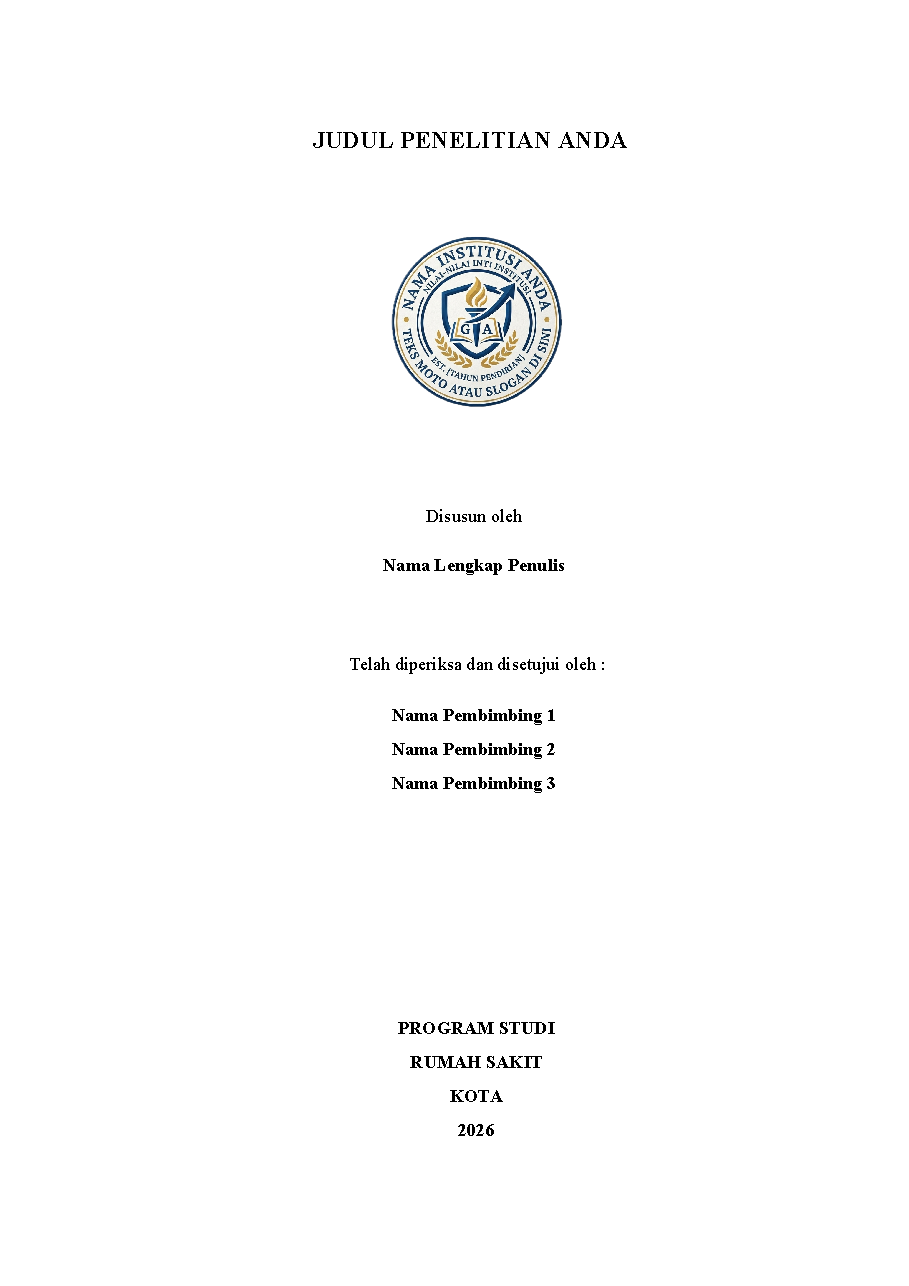
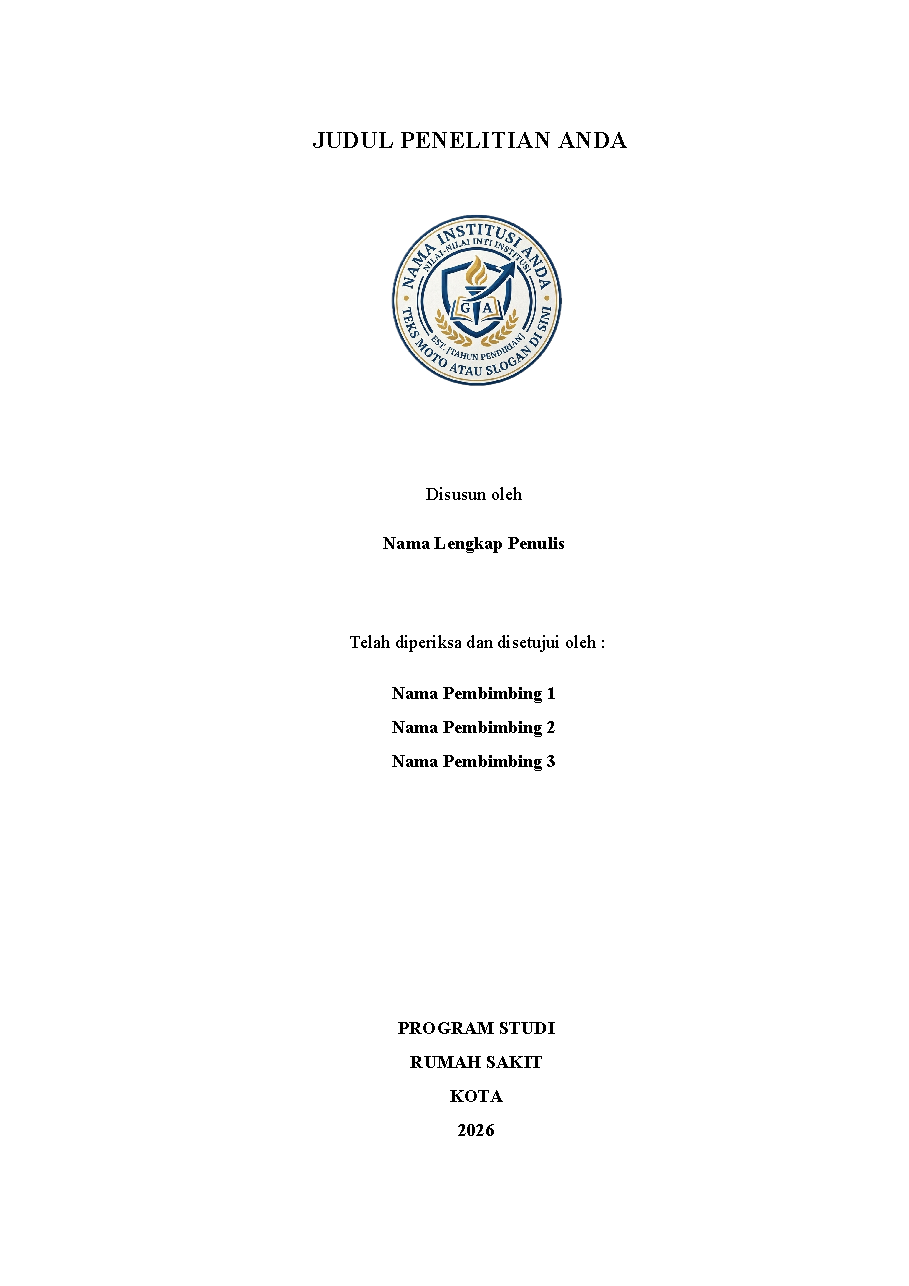
refactor: buat perintah reusable \makecover
- \makecover menerima judul override (opsional) dan jenis dokumen (opsional)
- Mengganti layout cover manual di frontmatter/cover.tex dengan pemanggilan \makecover
- Semua nilai bersumber dari metadata.tex
- Regenerasi preview-cover.png

Changed region(s): [[0.4312, 0.1555, 0.6161, 0.3421], [0.4004, 0.4977, 0.6469, 0.6221], [0.4312, 0.3733, 0.6161, 0.4666]]

diff --git a/preamble/command.tex b/preamble/command.tex
@@ -1,1 +1,113 @@
+% ================================================================
+% COMMANDS
+% Perintah (command) khusus yang dapat dipakai ulang.
+% Semua nilai dokumen berasal dari preamble/metadata.tex (\doc*).
+% ================================================================
+
 \newcommand{\HRule}{\rule{\linewidth}{0.5mm}}
+
+% ================================================================
+%% MAKECOVER
+%% Halaman sampul (titlepage) yang dapat dipakai ulang.
+%% Membaca seluruh identitas dari metadata.tex.
+%%
+%% Pemakaian:
+%%   \makecover                          % judul dari \docTitle
+%%   \makecover[Judul Pengganti]         % override judul
+%%   \makecover[][Skripsi]               % jenis dokumen (proposal/skripsi/tesis/disertasi/laporan)
+%%
+%% Contoh jenis dokumen: Proposal, Skripsi, Tesis, Disertasi,
+%% Laporan Akhir, dsb. Biarkan argumen ke-2 kosong untuk mengabaikan.
+%% ================================================================
+
+\makeatletter
+
+\NewDocumentCommand{\makecover}{ o o }{%
+  \begin{titlepage}
+
+  \thispagestyle{empty}
+
+  \begin{center}
+
+  % JUDUL
+  {\bfseries
+  \fontsize{16pt}{20pt}\selectfont
+  \MakeUppercase{\IfValueTF{#1}{#1}{\docTitle}}
+  }
+
+  % OPTIONAL: SUBJUDUL
+  \ifx\docSubtitle\@empty\relax\else
+  {\fontsize{14pt}{18pt}\selectfont
+  \docSubtitle
+  }
+  \fi
+
+  % OPTIONAL: JENIS DOKUMEN
+  \IfValueT{#2}{%
+  \vspace{1cm}
+  {\fontsize{12pt}{18pt}\selectfont
+  #2
+  }
+  }
+
+  \vspace{1.5cm}
+
+  % LOGO (path dari \docLogo)
+  \includegraphics[width=4cm,height=4cm,keepaspectratio]{\docLogo}
+
+  \vspace{2cm}
+
+  % PENULIS
+  {\fontsize{12pt}{18pt}\selectfont
+  Disusun oleh
+  }
+
+  \vspace{0.5cm}
+
+  {\bfseries
+  \fontsize{12pt}{18pt}\selectfont
+  \docAuthor
+  }
+
+  \vspace{1.5cm}
+
+  % PEMBIMBING
+  {\fontsize{12pt}{18pt}\selectfont
+  Telah diperiksa dan disetujui oleh : \\
+  }
+
+  \vspace{0.5cm}
+
+  {\bfseries
+  \fontsize{12pt}{18pt}\selectfont
+  \docSupervisor
+  }
+
+  \vfill
+
+  % INSTITUSI
+  {\bfseries
+  \fontsize{12pt}{18pt}\selectfont
+
+  \docProgram
+
+  %\docDepartment
+
+  %\docFaculty
+
+  \docHospital
+
+  \docLocation
+
+  \docYear
+
+  }
+
+  \end{center}
+
+  \end{titlepage}
+
+  \clearpage
+}
+
+\makeatother

diff --git a/frontmatter/cover.tex b/frontmatter/cover.tex
@@ -1,87 +1,12 @@
-\begin{titlepage}
+% ================================================================
+% COVER
+% Halaman sampul (titlepage). Memanggil perintah reusable \makecover
+% yang didefinisikan di preamble/command.tex.
+%
+% Pemakaian lanjutan:
+%   \makecover                              % judul dari \docTitle
+%   \makecover[Judul Pengganti]             % override judul
+%   \makecover[][Proposal Penelitian]       % + jenis dokumen
+% ================================================================
 
-\thispagestyle{empty}
-
-\begin{center}
-
-%%%%%%%%%%%%%%%%%%%%%%%%%%%%%%%%%%%%%%%%%%%%%%%%%%%%%%%%%%%%
-%% JUDUL
-%%%%%%%%%%%%%%%%%%%%%%%%%%%%%%%%%%%%%%%%%%%%%%%%%%%%%%%%%%%%
-
-{\bfseries
-\fontsize{16pt}{20pt}\selectfont
-\MakeUppercase{\docTitle}
-}
-
-\vspace{2cm}
-
-%%%%%%%%%%%%%%%%%%%%%%%%%%%%%%%%%%%%%%%%%%%%%%%%%%%%%%%%%%%%
-% LOGO
-% Path logo diambil dari \docLogo (preamble/metadata.tex).
-% Simpan berkas logo di folder figures/.
-%%%%%%%%%%%%%%%%%%%%%%%%%%%%%%%%%%%%%%%%%%%%%%%%%%%%%%%%%%%%
-
-\includegraphics[width=4cm,height=4cm,keepaspectratio]{\docLogo}
-
-\vspace{2cm}
-
-%%%%%%%%%%%%%%%%%%%%%%%%%%%%%%%%%%%%%%%%%%%%%%%%%%%%%%%%%%%%
-%% PENULIS
-%%%%%%%%%%%%%%%%%%%%%%%%%%%%%%%%%%%%%%%%%%%%%%%%%%%%%%%%%%%%
-
-{\fontsize{12pt}{18pt}\selectfont
-Disusun oleh
-}
-
-\vspace{0.5cm}
-
-{\bfseries
-\fontsize{12pt}{18pt}\selectfont
-\docAuthor
-}
-
-\vspace{1.5cm}
-
-%%%%%%%%%%%%%%%%%%%%%%%%%%%%%%%%%%%%%%%%%%%%%%%%%%%%%%%%%%%%
-%% PEMBIMBING
-%%%%%%%%%%%%%%%%%%%%%%%%%%%%%%%%%%%%%%%%%%%%%%%%%%%%%%%%%%%%
-
-{\fontsize{12pt}{18pt}\selectfont
-Telah diperiksa dan disetujui oleh : \\
-}
-
-\vspace{0.5cm}
-
-{\bfseries
-\fontsize{12pt}{18pt}\selectfont
-\docSupervisor
-}
-
-\vfill
-
-%%%%%%%%%%%%%%%%%%%%%%%%%%%%%%%%%%%%%%%%%%%%%%%%%%%%%%%%%%%%
-%% INSTITUSI
-%%%%%%%%%%%%%%%%%%%%%%%%%%%%%%%%%%%%%%%%%%%%%%%%%%%%%%%%%%%%
-
-{\bfseries
-\fontsize{12pt}{18pt}\selectfont
-
-\docProgram
-
-%\docDepartment
-
-%\docFaculty
-
-\docHospital
-
-\docLocation
-
-\docYear
-
-}
-
-\end{center}
-
-\end{titlepage}
-
-\clearpage
+\makecover

diff --git a/CHANGELOG.md b/CHANGELOG.md
@@ -12,6 +12,7 @@ Format mengikuti [Keep a Changelog](https://keepachangelog.com/id-ID/1.1.0/) dan
 - `preamble/setting/` — modul pengaturan terpisah: `spacing`, `typography`, `chapter`, `section`, `numbering`, `caption`, `toc`, `bibliography`, `hyperlink`.
 - Metadata `docSubtitle`, `docStudentID`, `docCosupervisor`, `docLogo` di `preamble/metadata.tex`.
 - Metadata PDF (`pdftitle`, `pdfauthor`, `pdfsubject`, `pdfkeywords`) otomatis mengikuti `\doc*` di `setting/hyperlink.tex`.
+- Perintah reusable `\makecover` (judul opsional + jenis dokumen opsional) di `preamble/command.tex`.
 
 ### Berubah
 - `preamble/package.tex` → `preamble/packages.tex` dan `preamble/setting.tex` → `preamble/settings.tex` (konsistensi penamaan sesuai AGENTS.md).
@@ -19,6 +20,7 @@ Format mengikuti [Keep a Changelog](https://keepachangelog.com/id-ID/1.1.0/) dan
 - Konfigurasi `hyperref` dipindah dari `packages.tex` ke `setting/hyperlink.tex`.
 - Metadata digeneralisasi: `\Program`→`\docProgram`, `\Faculty`→`\docFaculty`, `\University`→`\docUniversity`, `\Department`→`\docDepartment`, `\Hospital`→`\docHospital`, `\Location`→`\docLocation`, `\SubmissionYear`→`\docYear`, `\Pembimbing`→`\docSupervisor`. Nama lama tetap tersedia sebagai alias (backward compatible).
 - `cover.tex` memakai `\docLogo` dan `\doc*` dari metadata.
+- `cover.tex` menjadi pemanggil `\makecover` (layout cover sepenuhnya reusable di `command.tex`).
 - `README.md` ditulis ulang: gambaran umum, fitur, pemasangan, mulai cepat, build, struktur proyek, screenshot, roadmap, kontribusi, dan FAQ.
 
 ## [1.0.0] - 2026-08-04
